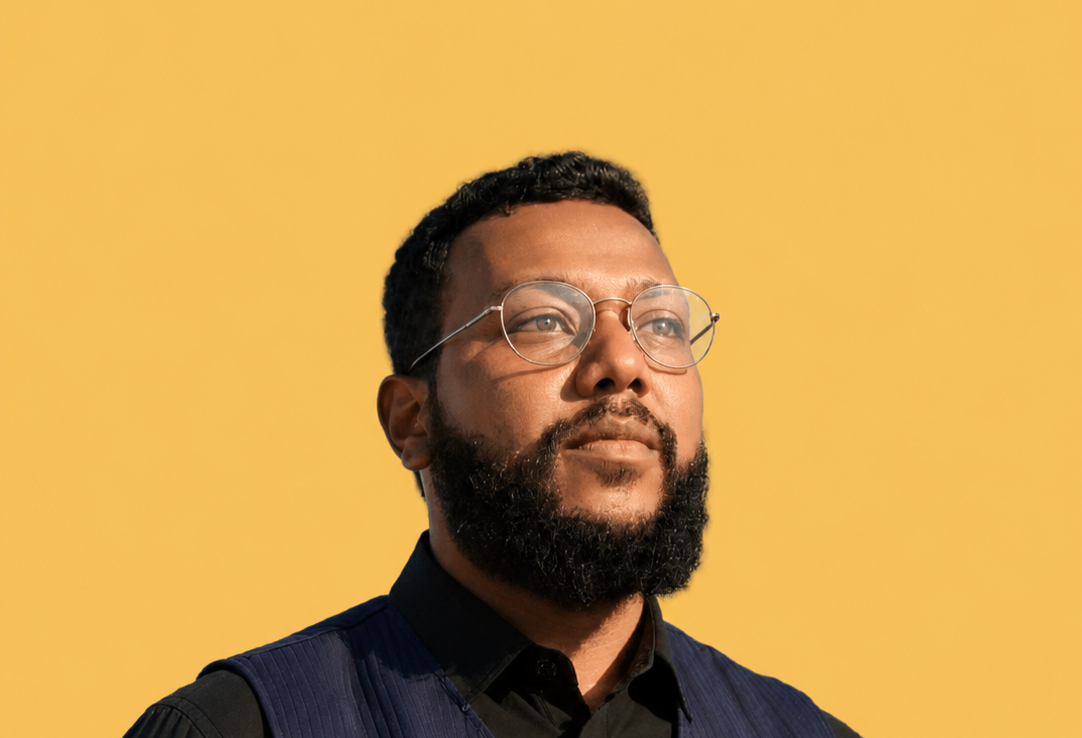
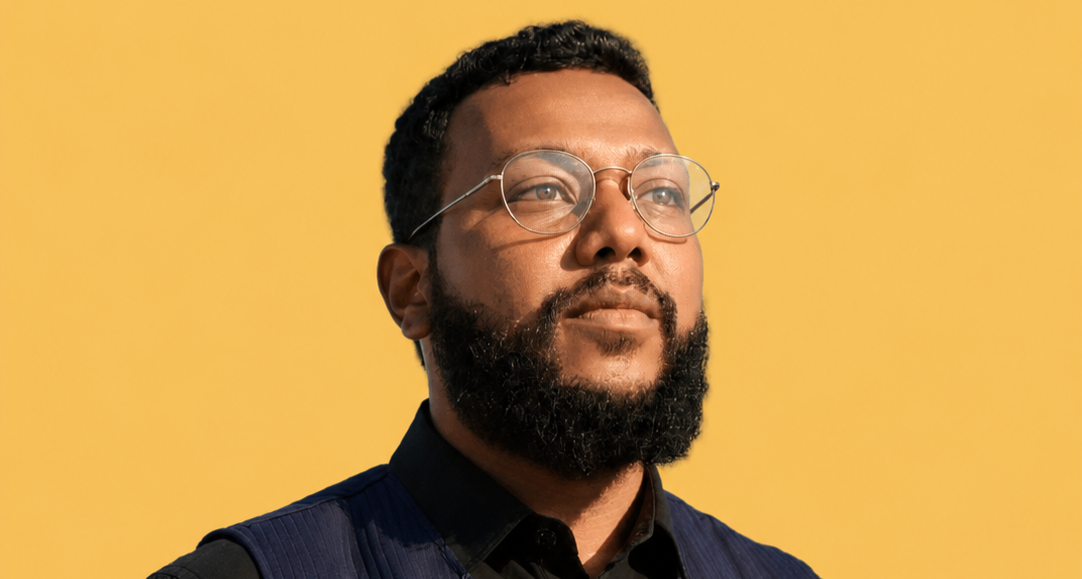
Spectra Baby case study page with portfolio thumbnail card

diff --git a/project-spectrababy.html b/project-spectrababy.html
@@ -1,0 +1,31 @@
+<!DOCTYPE html><html dir="rtl" lang="ar"><head><meta charset="UTF-8"><meta name="viewport" content="width=device-width, initial-scale=1.0"><title>Spectra Baby KSA | النذير — دراسة مشروع</title><meta name="description" content="دراسة مشروع: المتجر الرسمي لعلامة سبكترا — أجهزة سحب الحليب ومستلزمات الرضاعة وتغذية الأطفال، بالعربية والإنجليزية."><link href="https://fonts.googleapis.com/css2?family=IBM+Plex+Sans+Arabic:wght@400;500;600;700&display=swap" rel="stylesheet"><link rel="stylesheet" href="styles.css"><link rel="icon" type="image/png" href="images/alnazeerfavicon.png"></head><body>
+<header class="nav" id="top"><div class="container nav-inner"><a href="index.html" class="logo"><img class="logo-img" src="images/alnazeerlogo.png" alt="النذير"></a><nav class="nav-links" id="navLinks"><a href="index.html">الرئيسية</a><a href="services.html">الخدمات</a><a href="projects.html" class="active">المشاريع</a><a href="about.html">من أنا</a><a href="faq.html">الأسئلة الشائعة</a><a href="contact.html">تواصل معي</a></nav><div class="nav-actions"><a href="free-session.html?service=تطوير المتاجر الإلكترونية" class="btn btn-primary btn-sm"><span class="cta-full">أريد متجراً مشابهاً</span><span class="cta-short">استشارة مجانية</span></a><button class="menu-btn" id="menuBtn" aria-label="فتح القائمة" aria-expanded="false"><svg width="20" height="20" viewBox="0 0 24 24" fill="none" stroke="currentColor" stroke-width="2.2" stroke-linecap="round"><path d="M4 7h16M4 12h16M4 17h16"/></svg></button></div></div></header>
+<main>
+<section class="page-hero"><div class="container"><div class="breadcrumb"><a href="index.html">الرئيسية</a> / <a href="projects.html">المشاريع</a> / <span>Spectra Baby KSA</span></div><span class="section-label">دراسة مشروع — متجر إلكتروني</span><h1>Spectra Baby KSA — سبكترا، حيث تبدأ الرعاية</h1><p class="lead">المتجر الرسمي السعودي لعلامة سبكترا: أجهزة سحب الحليب ومستلزمات الرضاعة الطبيعية وتغذية الأطفال — تجربة شراء عربية متكاملة بنسخة إنجليزية.</p><div class="hero-ctas"><a href="https://spectrababy.sa/" target="_blank" rel="noopener" class="btn btn-dark">زيارة الموقع ←</a><a href="free-session.html?service=تطوير المتاجر الإلكترونية" class="btn btn-primary">أريد متجراً مشابهاً</a></div></div></section>
+<section class="section"><div class="container"><div class="proj-cover reveal" style="height:200px" aria-hidden="true"><img src="https://spectrababy.sa/wp-content/uploads/2024/08/logo10001.png" alt="شعار Spectra Baby" loading="lazy"></div></div></section>
+<section class="section"><div class="container split">
+<div class="problem-card reveal"><h2 class="title-start">فكرة المشروع</h2><p class="muted">علامة عالمية في أجهزة سحب الحليب تحتاج واجهة عربية رسمية تليق بثقة الأمهات: تصنيفات واضحة للأجهزة والملحقات والرضاعات والعناية، مع محتوى تثقيفي (مدونة وأدلة مقاسات ومقارنات) يساعد الأم على الاختيار الصحيح قبل الشراء.</p></div>
+<div class="reveal"><h2 class="title-start">ماذا يتضمن المتجر؟</h2><ul class="use-list" style="grid-template-columns:1fr">
+<li>تصنيفات شاملة: سحب الحليب، تغذية الطفل، المواليد، التعقيم، العناية بالأم</li>
+<li>سلة ودفع وحسابات عملاء وتوصيل لجميع مدن المملكة</li>
+<li>نسختان كاملتان: العربية والإنجليزية</li>
+<li>مدونة وأدلة استخدام ومقارنات بين الأجهزة</li>
+<li>تقييمات وآراء حقيقية من الأمهات على المنتجات</li>
+<li>دعم واتساب مباشر وصفحات الضمان والشحن والاستبدال</li>
+</ul></div>
+</div></section>
+<section class="section soft"><div class="container"><h2 class="section-title">التقنيات المستخدمة</h2><div class="tags" style="justify-content:center"><span>WooCommerce</span><span>WordPress</span><span>بوابات دفع</span><span>عربي / English</span><span>واتساب</span><span>تحليلات</span></div></div></section>
+<section class="section"><div class="container"><div class="cta-band reveal"><h2>تريد متجراً يبيع عنك؟ <span>سأبنيه لعملك</span></h2><p>احجز استشارة مجانية واحكِ لي عن منتجاتك وسأضع معك تصور متجرك الأنسب.</p><div class="hero-ctas" style="justify-content:center"><a href="free-session.html?service=تطوير المتاجر الإلكترونية" class="btn btn-gold">احجز استشارتك المجانية</a><a href="projects.html" class="btn btn-ghost" style="background:transparent;color:#fff;border-color:rgba(255,255,255,.3)">عودة للمشاريع</a></div></div></div></section>
+</main>
+<footer class="footer"><div class="container footer-grid"><div><a href="index.html" class="logo"><img class="logo-img" src="images/alnazeerlogowhite.png" alt="النذير"></a><p class="f-muted">مهندس ذكاء اصطناعي وبرمجيات — أحول المشاكل اليومية إلى أنظمة ذكية.</p><div style="margin-top:12px"><a href="free-session.html" class="btn btn-primary btn-sm">احجز استشارتك المجانية</a></div></div><div><h4>صفحات</h4><a href="index.html">الرئيسية</a><a href="about.html">من أنا</a><a href="projects.html">المشاريع</a><a href="faq.html">الأسئلة الشائعة</a></div><div><h4>خدماتي</h4><a href="ai-agents.html">وكلاء الذكاء الاصطناعي والأتمتة</a><a href="custom-ai.html">حلول الذكاء الاصطناعي المخصصة</a><a href="software.html">تطوير البرمجيات</a><a href="services.html">كل الخدمات</a></div><div><h4>تواصل معي</h4><a href="free-session.html">الاستشارة المجانية</a><a href="contact.html">تواصل معي</a><p class="f-muted">عن بُعد — العالم العربي</p></div></div><div class="footer-bottom">© 2026 النذير — جميع الحقوق محفوظة</div></footer>
+<div class="chat-pop ai-chat" id="chatPop" role="dialog" aria-label="المساعد الذكي">
+  <div class="ai-head"><div class="ai-title"><strong>المساعد الذكي</strong><small><span class="online-dot"></span>متصل الآن</small></div><a class="ai-wa" href="https://wa.me/249117148664?text=%D9%85%D8%B1%D8%AD%D8%A8%D8%A7%20%D8%B9%D9%86%D8%AF%D9%8A%20%D8%A7%D8%B3%D8%AA%D9%81%D8%B3%D8%A7%D8%B1" target="_blank" rel="noopener">واتساب</a></div>
+  <div class="ai-log" id="aiLog" aria-live="polite"></div>
+  <div class="ai-chips" id="aiChips"><button class="chip" type="button">ما خدماتك؟</button><button class="chip" type="button">كيف أحجز استشارة؟</button><button class="chip" type="button">كم الأسعار؟</button></div>
+  <form class="ai-input" id="aiForm"><input type="text" id="aiText" placeholder="اكتب سؤالك هنا…" autocomplete="off" maxlength="500" aria-label="اكتب سؤالك"><button type="submit" class="btn btn-dark btn-sm">إرسال</button></form>
+</div>
+<button class="chat-fab" id="chatFab" aria-label="خيارات التواصل" aria-expanded="false"><svg width="24" height="24" viewBox="0 0 24 24" fill="none" stroke="currentColor" stroke-width="2" stroke-linecap="round" stroke-linejoin="round"><path d="M21 11.5a8.38 8.38 0 0 1-.9 3.8 8.5 8.5 0 0 1-7.6 4.7 8.38 8.38 0 0 1-3.8-.9L3 21l1.9-5.7a8.38 8.38 0 0 1-.9-3.8 8.5 8.5 0 0 1 4.7-7.6 8.38 8.38 0 0 1 3.8-.9h.5a8.48 8.48 0 0 1 8 8v.5z"/></svg></button>
+<button class="to-top" id="toTop" aria-label="العودة للأعلى">↑</button>
+<script src="script.js" defer></script>
+</body>
+</html>

diff --git a/projects.html b/projects.html
@@ -3,6 +3,7 @@
 <header class="nav"><div class="container nav-inner"><a href="index.html" class="logo"><img class="logo-img" src="images/alnazeerlogo.png" alt="النذير"></a><nav class="nav-links" id="navLinks"><a href="index.html">الرئيسية</a><a href="services.html">الخدمات</a><a href="projects.html" class="active">المشاريع</a><a href="about.html">من أنا</a><a href="faq.html">الأسئلة الشائعة</a><a href="contact.html">تواصل معي</a></nav><div class="nav-actions"><a href="free-session.html" class="btn btn-primary btn-sm"><span class="cta-full">احجز استشارتك المجانية</span><span class="cta-short">استشارة مجانية</span></a><button class="menu-btn" id="menuBtn" aria-label="فتح القائمة" aria-expanded="false"><svg width="20" height="20" viewBox="0 0 24 24" fill="none" stroke="currentColor" stroke-width="2.2" stroke-linecap="round"><path d="M4 7h16M4 12h16M4 17h16"/></svg></button></div></div></header>
 <main><section class="page-hero"><div class="container"><div class="breadcrumb"><a href="index.html">الرئيسية</a> / <span>المشاريع</span></div><span class="section-label">المشاريع</span><h1>مشاريع وسيناريوهات مختارة</h1><p class="lead">أمثلة واقعية لما أستطيع بناءه لك — كل مشروع بدأ باستشارة مجانية مثل التي ستحجزها أنت.</p><div class="hero-ctas"><a href="free-session.html" class="btn btn-primary">أريد مشروعاً مشابهاً — احجز استشارة</a></div></div></section>
 <section class="section"><div class="container"><div class="cards-3">
+<article class="card sm reveal"><div class="proj-cover" aria-hidden="true"><img src="https://spectrababy.sa/wp-content/uploads/2024/08/logo10001.png" alt="شعار Spectra Baby" loading="lazy"></div><span class="tag">متجر إلكتروني</span><h3>Spectra Baby KSA</h3><p>المتجر الرسمي لعلامة سبكترا: أجهزة سحب الحليب ومستلزمات الرضاعة وتغذية الأطفال — بالعربية والإنجليزية.</p><div class="tags"><span>WooCommerce</span><span>عربي / EN</span></div><a href="project-spectrababy.html" class="link">عرض التفاصيل ←</a></article>
 <article class="card sm reveal"><span class="tag">وكيل واتساب</span><h3>وكيل حجوزات لعيادة أسنان</h3><p>المشكلة: اتصالات كثيرة وضياع حجوزات. ما بنيته: وكيل واتساب يستقبل الحجز ويؤكده ويذكر المريض. النتيجة: خفض الاتصالات اليدوية 70%.</p><div class="tags"><span>WhatsApp</span><span>حجوزات</span></div></article>
 <article class="card sm reveal"><span class="tag">وكيل صوتي</span><h3>وكيل صوتي لمطعم في الذروة</h3><p>يستقبل طلبات الهاتف ويحولها للمطبخ ويرسل تأكيداً نصياً. النتيجة: صفر مكالمات ضائعة في الذروة.</p><div class="tags"><span>Voice</span><span>مطاعم</span></div></article>
 <article class="card sm reveal"><span class="tag">أتمتة متجر</span><h3>أتمتة متابعة متجر عبايات</h3><p>يتابع السلات المتروكة على واتساب ويحدث المخزون ويرسل تقارير يومية. النتيجة: رفع إتمام الشراء.</p><div class="tags"><span>Automation</span><span>متاجر</span></div></article>

diff --git a/styles.css b/styles.css
@@ -368,6 +368,9 @@ section{content-visibility:auto;contain-intrinsic-size:auto 600px}
 .dots span:nth-child(2){animation-delay:.2s}
 .dots span:nth-child(3){animation-delay:.4s}
 @keyframes blink{0%,60%,100%{opacity:.2}30%{opacity:1}}
+/* Project thumbnail cover */
+.proj-cover{background:#fff;border:1px solid var(--border);border-radius:14px;height:130px;display:grid;place-items:center;margin-bottom:14px;overflow:hidden;padding:14px}
+.proj-cover img{max-height:100%;width:auto;max-width:100%;object-fit:contain;display:block}
 
 /* AI chat popup */
 .chat-pop.ai-chat{width:min(370px,calc(100vw - 32px));padding:0;overflow:hidden;display:flex;flex-direction:column}
